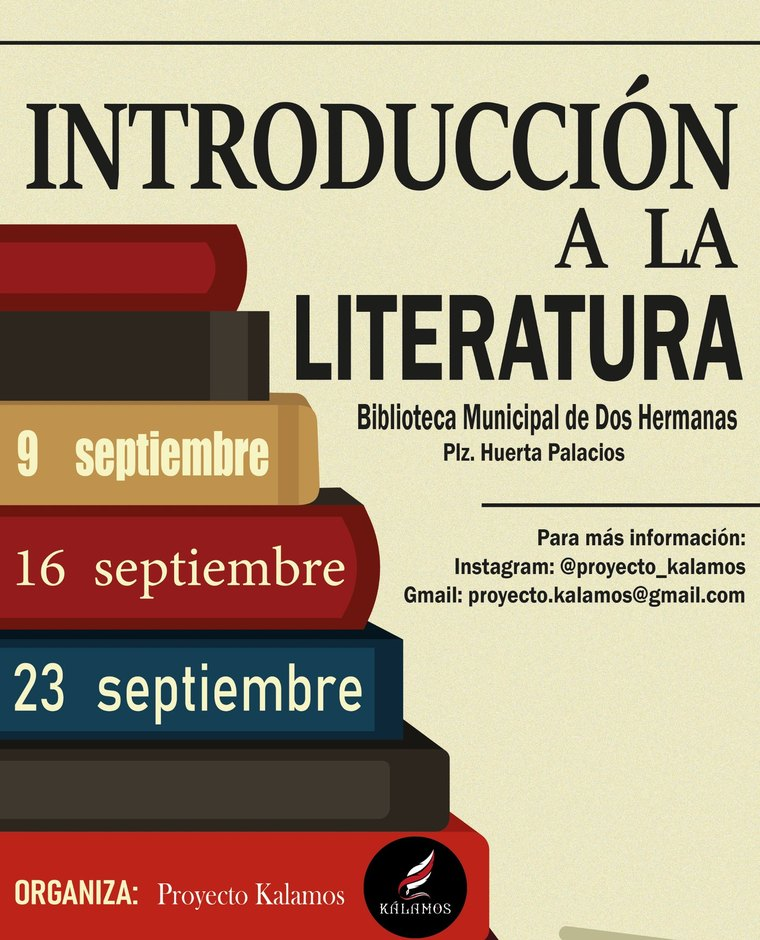
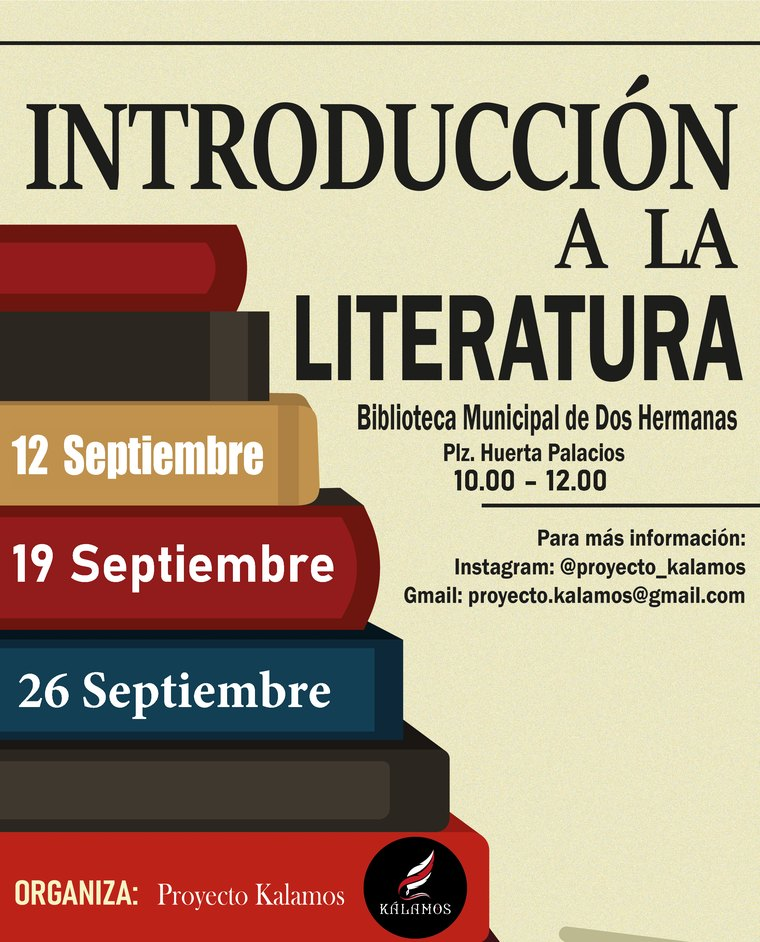
cambios en la literatura

diff --git a/actividades.html b/actividades.html
@@ -4,7 +4,7 @@
 <meta charset="utf-8">
 <meta name="viewport" content="width=device-width, initial-scale=1">
 <title>Actividades · Kálamos</title>
-<meta name="description" content="Talleres, encuentros y actividades culturales de Kálamos en Dos Hermanas. Entrada libre y espacios públicos.">
+<meta name="description" content="Talleres, encuentros y actividades culturales de Kálamos en Dos Hermanas. Taller de Introducción a la Literatura los sábados 12, 19 y 26 de septiembre en la Biblioteca Municipal. Entrada libre.">
 <meta property="og:title" content="Actividades de Kálamos en Dos Hermanas">
 <meta property="og:description" content="Talleres y encuentros culturales de entrada libre.">
 <meta property="og:type" content="website">
@@ -58,10 +58,13 @@
 
       <div class="pliego">
         <div class="texto">
-          <p style="color:var(--texto-color);font-size:var(--t-m)">Tres sesiones para entrar en la literatura por la puerta de delante: leer, comentar y discutir, acompañado de gente que tiene las mismas ganas.</p>
-          <p style="color:var(--texto-2)">Si nunca has leído por gusto, es tu sitio. Si ya lees con frecuencia, ven a profundizar en alguna lectura, descubrir libros nuevos o simplemente comentarlos.</p>
+          <p style="color:var(--texto-color);font-size:var(--t-m)">Un taller pensado para acercar al mundo de la lectura a todas aquellas personas que quieran iniciarse o profundizar en él.</p>
+          <p style="color:var(--texto-2)">A lo largo de tres sesiones trataremos grandes clásicos de la literatura para comentar y debatir sobre ellos. También hablaremos de aspectos fundamentales del mundo editorial: el conocimiento de las traducciones, la búsqueda de información, la elección de la edición. Queremos ofrecer herramientas para generar cercanía a este mundo con una mirada crítica y consciente.</p>
+          <p style="color:var(--texto-2)">Cada sesión estará dedicada a una o varias obras y servirá como punto de partida para conocerlas, plantear cuestiones, compartir impresiones y descubrir nuevas formas de disfrutar de la lectura.</p>
+          <p style="color:var(--texto-color)">Si quieres empezar a leer, este es tu sitio. Y si ya lees con frecuencia, ven a profundizar en alguna de estas obras, compartir tus ideas y descubrir nuevas perspectivas.</p>
           <dl class="datos" style="width:100%;max-width:440px">
-            <div><dt>Fechas</dt><dd>Miércoles 9, 16 y 23 de septiembre de 2026</dd></div>
+            <div><dt>Fechas</dt><dd>Sábados 12, 19 y 26 de septiembre de 2026</dd></div>
+            <div><dt>Horario</dt><dd>De 10:00 a 12:00 h</dd></div>
             <div><dt>Lugar</dt><dd>Biblioteca Municipal de Dos Hermanas, Plaza Huerta Palacios</dd></div>
             <div><dt>Entrada</dt><dd>Libre</dd></div>
             <div><dt>Información</dt><dd><a href="mailto:proyecto.kalamos@gmail.com">proyecto.kalamos@gmail.com</a></dd></div>
@@ -69,7 +72,7 @@
           <a class="enlace" href="mailto:proyecto.kalamos@gmail.com?subject=Taller%20Introducci%C3%B3n%20a%20la%20Literatura">Preguntar por el taller</a>
         </div>
         <div class="lamina">
-          <img src="img/cartel-taller-literatura.jpg" alt="Cartel del taller Introducción a la Literatura: el título sobre una pila de libros de colores, con las fechas 9, 16 y 23 de septiembre">
+          <img src="img/cartel-taller-literatura.jpg" alt="Cartel del taller Introducción a la Literatura: el título sobre una pila de libros de colores, con las fechas 12, 19 y 26 de septiembre, de 10:00 a 12:00, en la Biblioteca Municipal de Dos Hermanas">
         </div>
       </div>
     </div>

diff --git a/el-pedante.html b/el-pedante.html
@@ -121,8 +121,8 @@
               <span class="que"><b>Celtas Cortos</b><span class="donde">Auditorio Municipal Los del Río · 22:00 h</span></span>
             </li>
             <li>
-              <span class="cuando">9 · 16 · 23 sept</span>
-              <span class="que"><b>Taller: Introducción a la Literatura</b><span class="donde">Biblioteca Municipal · organiza Kálamos</span></span>
+              <span class="cuando">12 · 19 · 26 sept</span>
+              <span class="que"><b>Taller: Introducción a la Literatura</b><span class="donde">Biblioteca Municipal · sábados de 10:00 a 12:00 · organiza Kálamos</span></span>
             </li>
             <li>
               <span class="cuando">25 · 26 · 27 sept</span>
